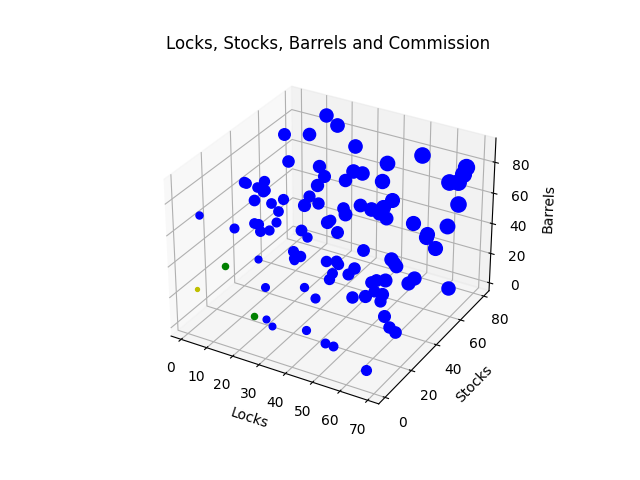
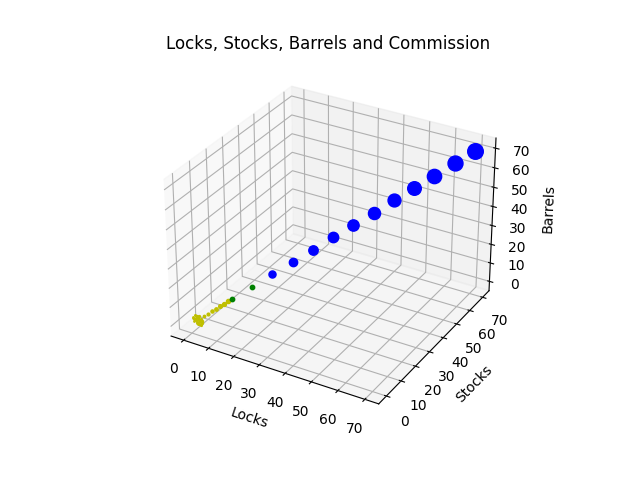
changes to commission problem

diff --git a/Source/Examples/commission_problem/commission.py b/Source/Examples/commission_problem/commission.py
@@ -1,9 +1,12 @@
 
+from itertools import permutations
 from typing import Dict, Generator, List, Tuple
 from operator import mul
 from random import randrange
+import warnings
 
 import matplotlib.pyplot as plt
+import pytest
 
 from Falcon.domains import domain
 from Falcon.predicates import predicate
@@ -23,9 +26,11 @@ barrel_max = 90
 
 def commission(locks: int, stocks: int, barrels: int) -> float:
 
+    # it actually found an error!
+
     assert locks is not None and 0 <= locks <= lock_max,     f"Number of locks must an integer greater or equal to 0 and less than {lock_max}"
     assert stocks is not None and 0 <= stocks <= stock_max,  f"Number of stocks must an integer greater or equal to 0 and less than {stock_max}"
-    assert barrels is not None and 0 <= locks <= barrel_max, f"Number of barrels must an integer greater or equal to 0 and less than {barrel_max}"
+    assert barrels is not None and 0 <= barrels <= barrel_max, f"Number of barrels must an integer greater or equal to 0 and less than {barrel_max}"
 
     # if locks <= 0 or stocks <= 0 or barrels <= 0:
     #     return 0.0
@@ -53,21 +58,36 @@ def dot(x: Tuple[int, int, int], y: Tuple[float, float, float]) -> float:
     """Computes the dot product between 2 tuples."""
     return sum(map(mul, x, y))
 
+
 # domains --------------------------------------
 
 @domain(alias='Sales')
-def sales_values(n=100, test_outside: bool = False) -> Generator[Tuple[int, int, int], None, None]:
+def sales_values(n=100) -> Generator[Tuple[int, int, int], None, None]:
 
-    if test_outside:
-        yield (-1, -1, -1)
-        yield (0, 0, 0)
+    if n <= 10:
+        warnings.warn("'n' must be greater than 10. Setting n to 10.")
+        n = 10
 
-        for _ in range(n - 2):
-            yield (randrange(-10, lock_max + 10), randrange(-10, stock_max + 10), randrange(-10, barrel_max + 10))
+    # this ensures "low" is tested
+    for _ in range(10):
+        yield (randrange(1, 10), randrange(1, 10), randrange(1, 10))
 
-    else:
-        for i in range(n):
-            yield (randrange(1, lock_max), randrange(1, stock_max), randrange(1, barrel_max))
+    # -10 gives some chance of -1 or 0
+    for _ in range(n-10):
+        yield (randrange(-10, lock_max), randrange(-10, stock_max), randrange(-10, barrel_max))
+
+
+@domain(alias=['SalesProgression'])
+def linear_sales():
+
+    for l,s,b in permutations([-1, 0, 1, 2, 3], r=3):
+        yield (l, s, b)
+
+    for s in range(3, 10):
+        yield (s, s, s)
+
+    for s in range(10, 95, 5):
+        yield (s, s, s)
 
 
 # predicates ------------------------------------
@@ -79,6 +99,16 @@ def valid_sales(l: int, s: int, b: int) -> bool:
            0 <= l <= lock_max and \
            0 <= s <= stock_max and \
            0 <= b <= barrel_max)
+
+
+@predicate(alias='too-low?')
+def too_low(l: int, s: int, b: int) -> bool:
+    return l <= 0 and s <= 0 and b <= 0
+
+
+@predicate(alias='too-high?')
+def too_high(l: int, s: int, b: int) -> bool:
+    return l >= lock_max and s >= stock_max and b >= barrel_max
 
 
 @predicate(alias=['low-sales?'])
@@ -103,20 +133,28 @@ def high_sales(l: int, s: int, b: int) -> bool:
 
 # use assertion error for invalid sales
 
-@predicate(alias=['low-commission?'], is_group=True)
+@predicate(alias=['low-commission+examples?'], is_group=True)
+def low_commission_group(commissions: List[float], at_least: int = 10) -> bool:
+    return all((map(lambda c: ((c / 0.1) - 5.0) <= 1_000 or ((c / 0.1) + 5.0) <= 1_000, commissions))) and \
+           len(commissions) >= at_least
+    
+
+@predicate(alias=['low-commission?'])
 def low_commission(c: float) -> bool:
-    return True
+    s =  (c / 0.1)                                      # estimated sales
+    return ((c / 0.1) - 5.0) <= 1_000 or ((c / 0.1) + 5.0) <= 1_000     # estimating with floats…
 
 
-@predicate(alias=['medium-commission?'], is_group=True)
+@predicate(alias=['medium-commission?'])
 def medium_commission(c: float) -> bool:
-    return True
+    s =  (c / 0.15) + 334.0                             # estimated sales
+    return (s - 5.0) <= 1_800 or (s + 5.0) <= 1_800     # estimating with floats…
 
 
-@predicate(alias=['high-commission?'], is_group=True)
+@predicate(alias=['high-commission?'])
 def high_commission(c: float) -> bool:
-    return True
-
+    s =  (c / 0.2) + 700.0                              # estimated sales
+    return (s - 5.0) >= 1_800 or (s + 5.0) >= 1_800     # estimating with floats…
 
 # -----------------------------------------------
 
@@ -125,7 +163,7 @@ def high_commission(c: float) -> bool:
 
 # commissions : Dict[str, List[Tuple[int, int, int]]]
 
-def plot_commission(cases, results):
+def plot_commission(cases, results, name=None):
 
     colors = 'ygk'
     groups = ('low', 'medium', 'high')
@@ -146,13 +184,8 @@ def plot_commission(cases, results):
 
     # 3d plot ------------------------------
 
-    print(cases)
-    print(results)
-
     fig = plt.figure()
     ax  = fig.add_subplot(projection='3d')
-
-    print(len(cases['low']))
 
     i = 0
 
@@ -179,13 +212,14 @@ def plot_commission(cases, results):
     fig.savefig('/media/aaron/Shared2/School/BGSU-thesis/Source/Examples/commission_problem/commission-plot-3d.png', format='png')
 
 
+# # low
+# print(commission(10, 10, 10), dot((10, 10, 10), (lock_cost, stock_cost, barrel_cost)))
+# print(low_commission(100.0))
 
+# # medium
+# print(commission(12, 12, 12), dot((12, 12, 12), (lock_cost, stock_cost, barrel_cost)))
+# print(medium_commission(130.0))
 
-# for l,s,b in sales_values(10, False):
-#     c =  dot((lock_cost, stock_cost, barrel_cost), (l, s, b))
-#     print(l, s, b, c, commission(l, s, b))
-
-# print('-'*20)
-
-# for l,s,b in sales_values(10, True):
-#     print(l, s, b)
+# # high
+# print(commission(50, 50, 50), dot((50, 50, 50), (lock_cost, stock_cost, barrel_cost)))
+# print(high_commission(860.0))

diff --git a/Source/Examples/commission_problem/test_commission.py b/Source/Examples/commission_problem/test_commission.py
@@ -13,14 +13,14 @@ from commission import *
 
 # This file was generated automatically by falcon.
 # from: commission.fcn
-# on 2022 Jun 30 Thu 20:53:21
+# on 2022 Jul 02 Sat 18:23:28
 
-sales = sales_values()
+sales = linear_sales()
 
 too_low = lambda l,s,b: l <= 0 and s <= 0 and b <= 0
 too_high = lambda l,s,b: l > 100 and s > 100 and b > 100
 
-def test_commission_xJTRD():
+def test_commission_4a():
 
     cases = defaultdict(list)
     results = defaultdict(list)
@@ -55,7 +55,7 @@ def test_commission_xJTRD():
     plot_commission(cases, results)
 
 
-def test_commission_AH42():
+def test_commission_QYP():
 
     cases = defaultdict(list)
     results = defaultdict(list)
@@ -72,6 +72,7 @@ def test_commission_AH42():
             cases['invalid'].append((locks, stocks, barrels))
             results['invalid'].append(result)
         elif low_sales(locks, stocks, barrels):
+            assert low-commission+examples?(result)
             cases['low'].append((locks, stocks, barrels))
             results['low'].append(result)
         elif medium_sales(locks, stocks, barrels):
@@ -83,11 +84,7 @@ def test_commission_AH42():
         else:
             raise FalconError('Failed to meet at least one group')
 
-    assert low_commission(results['low'])
     assert medium_commission(results['medium'])
     assert high_commission(results['high'])
 
     plot_commission(cases, results)
-
-
-test_commission_AH42()

diff --git a/Source/Falcon/predicates/basic.py b/Source/Falcon/predicates/basic.py
@@ -16,6 +16,12 @@ def is_error(error) -> bool:
     return isinstance(error, Exception)
 
 
+@predicate(alias=['asserts?'])
+@on_fail_false
+def raises_assertion_error(error) -> bool:
+    return isinstance(error, AssertionError)
+
+
 @predicate(alias=['is-error?', 'raises?'])
 @on_fail_false
 def raises_error(error, error_type) -> bool:
